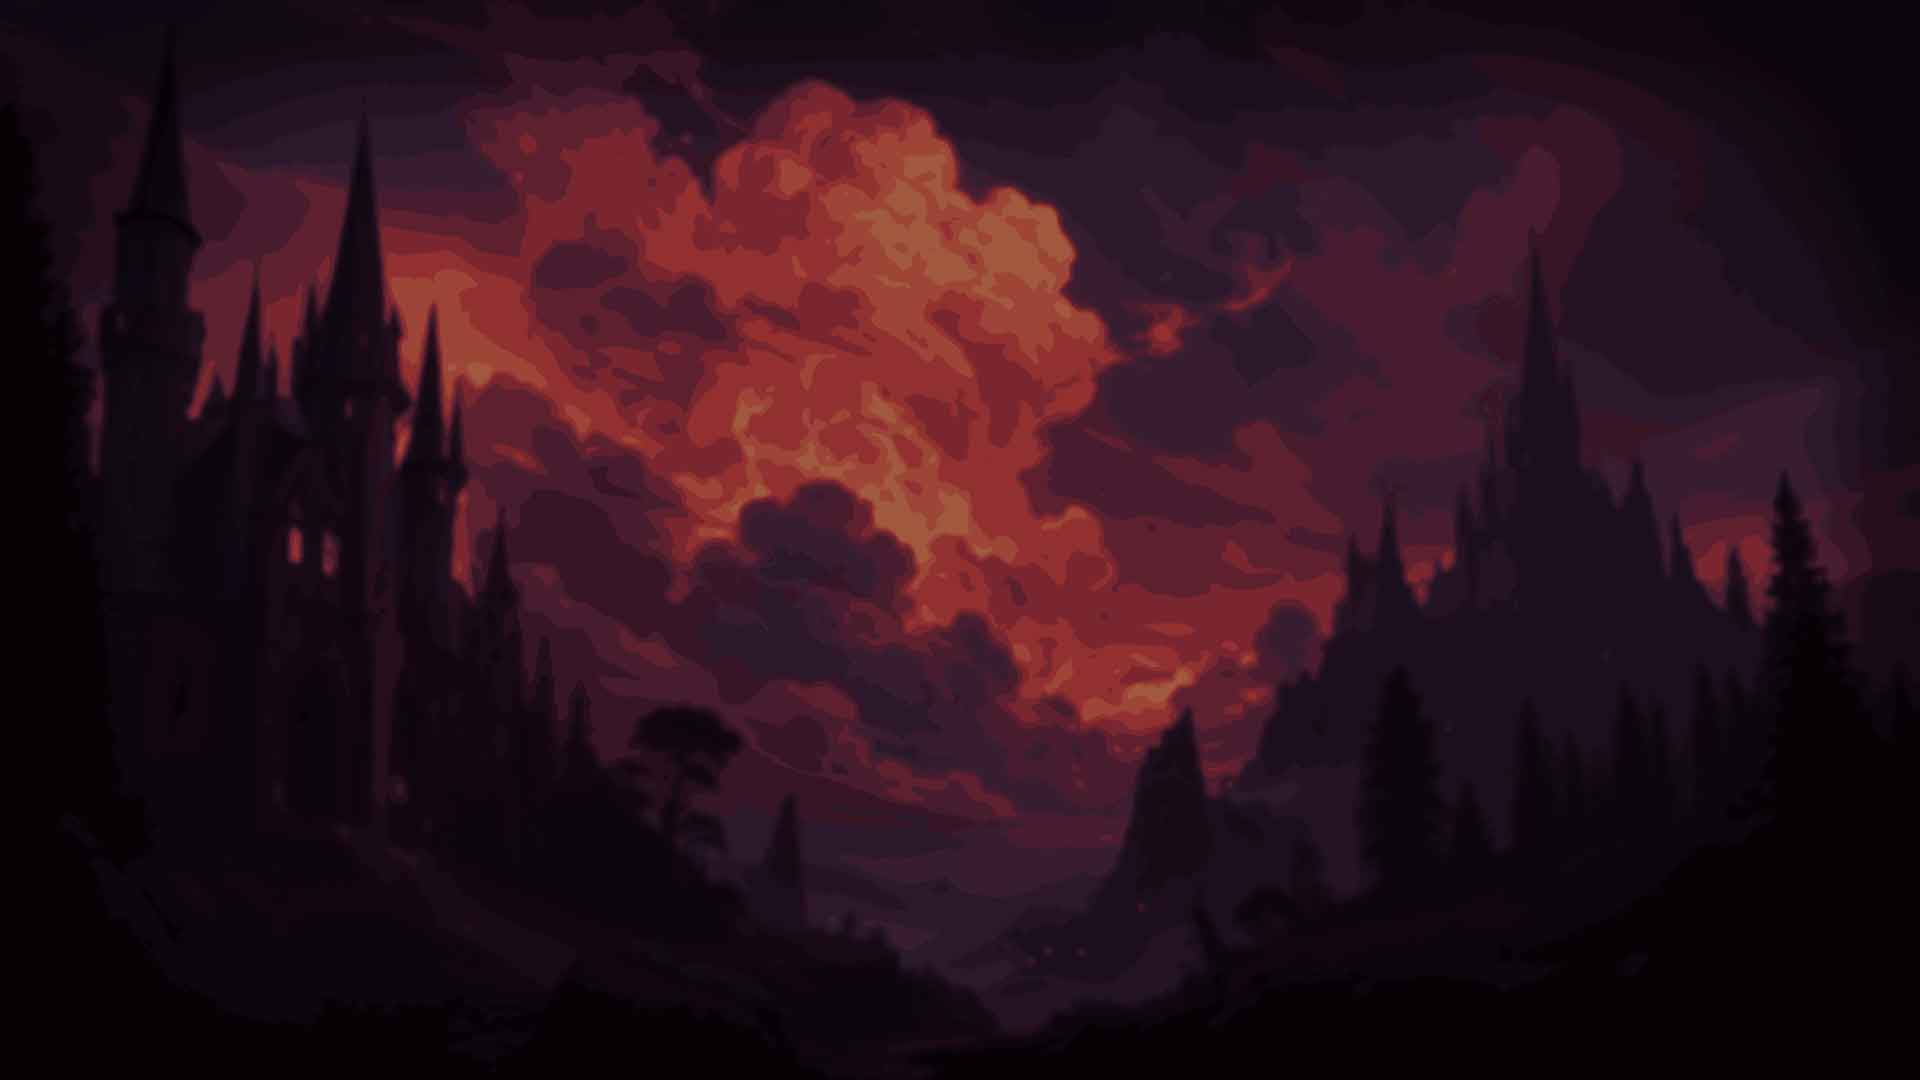
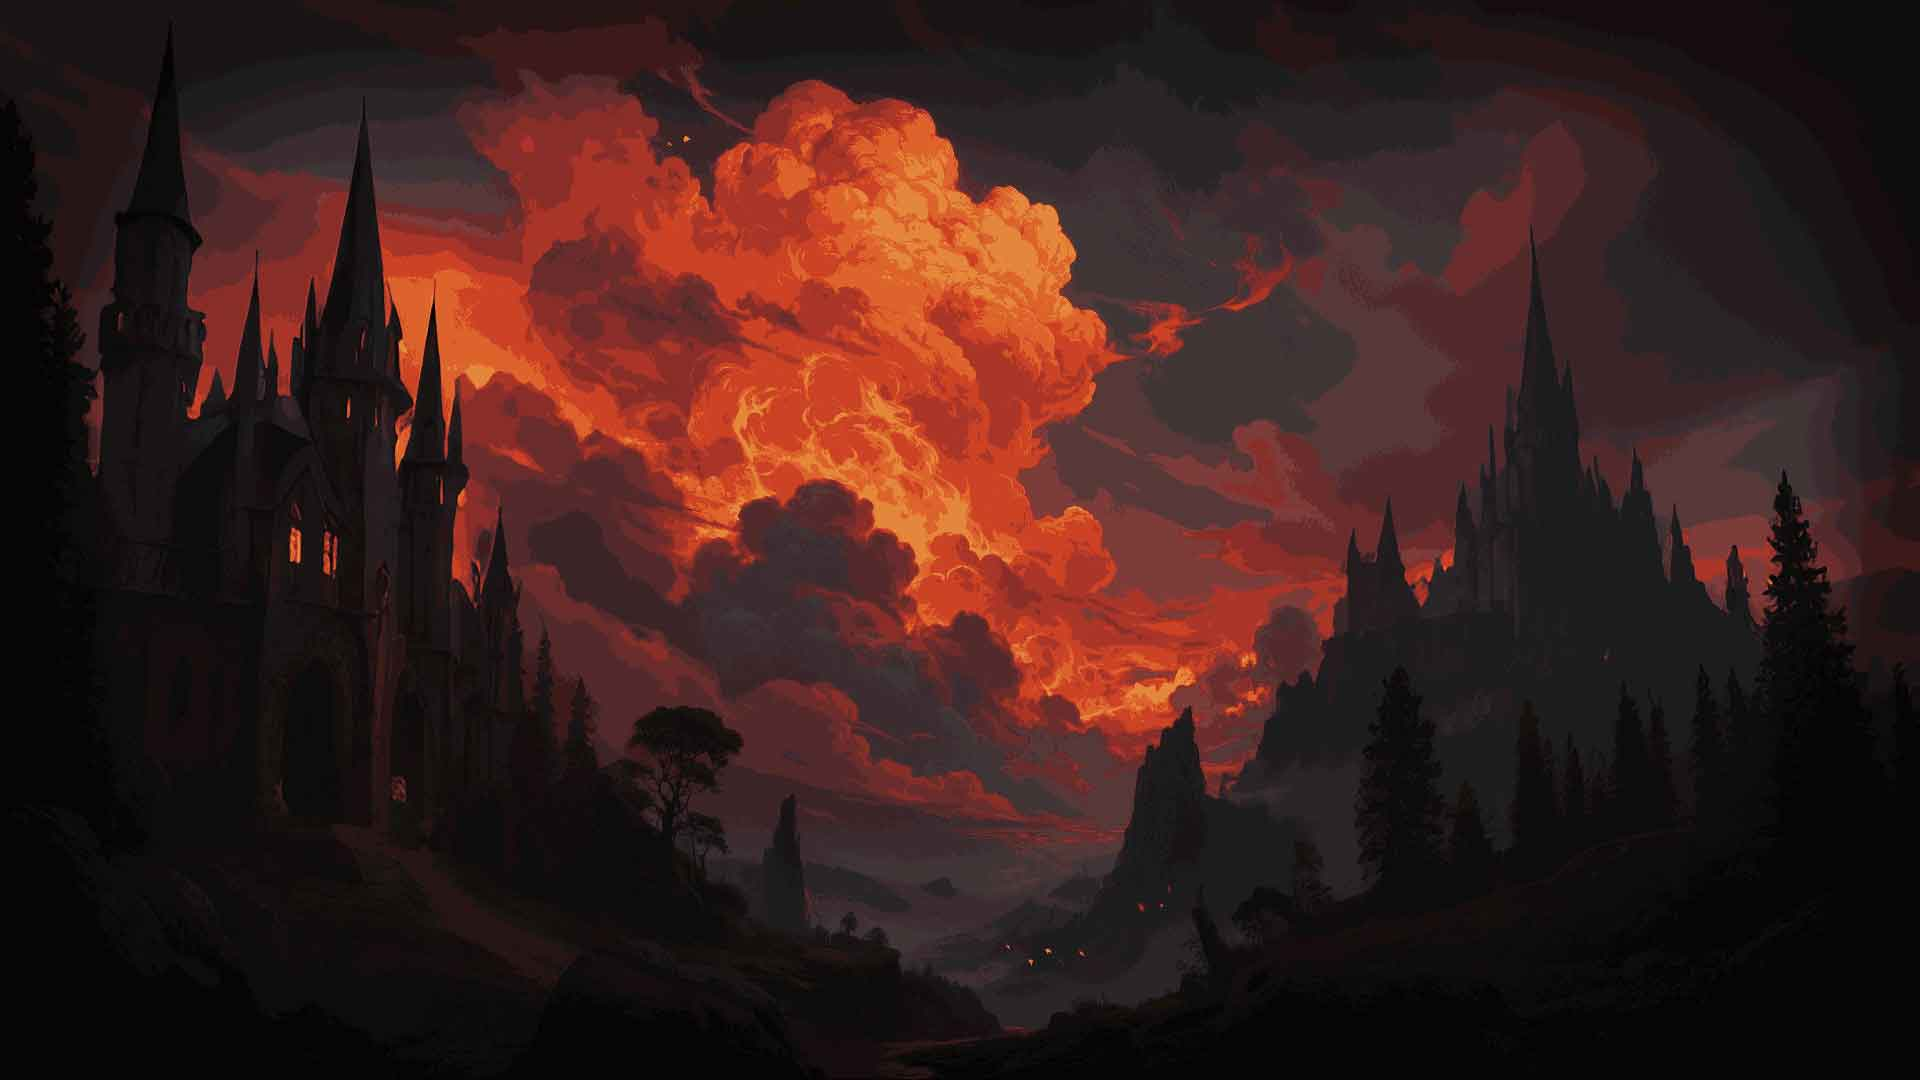
refine

diff --git a/_wizard/src/_game_main_menu.hpp b/_wizard/src/_game_main_menu.hpp
@@ -65,7 +65,7 @@ namespace Game {
 	}
 
 	inline void MainMenu::Draw() {
-		xx::Quad{}.SetFrame(gLooper.res_bg_main).SetScale(lastWindowSize.y / 1080).Draw();
+		xx::Quad{}.SetFrame(gLooper.res_bg_main).SetScale(lastWindowSize.y / 1080).SetColorplus(0.6f).Draw();
 		gLooper.DrawNode(ui);
 	}
 
